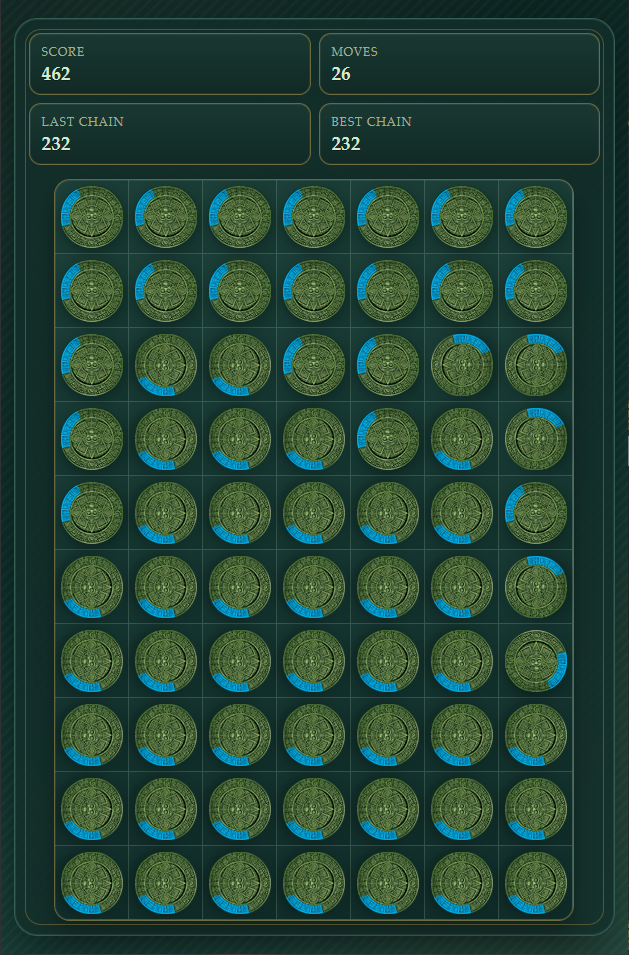
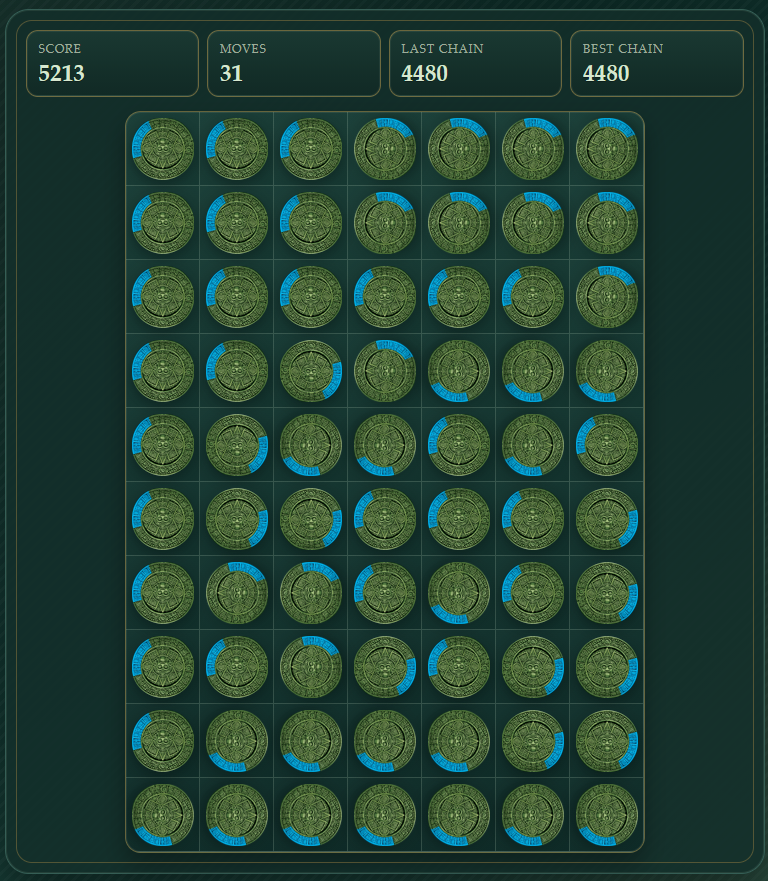
Gameplay tweaks

diff --git a/index.php b/index.php
@@ -11,7 +11,7 @@ function readIntParam(string $name, int $default, int $min, int $max): int
     return max($min, min($max, $value));
 }
 
-$rows = readIntParam('rows', 10, 6, 18);
+$rows = readIntParam('rows', 11, 6, 18);
 $cols = readIntParam('cols', 7, 4, 12);
 
 $initialState = [];
@@ -366,11 +366,11 @@ for ($row = 0; $row < $rows; $row++) {
       bestChainEl.textContent = String(bestChain);
     }
 
-    function rotateCell(row, col) {
+    function rotateCell(row, col, turnsToApply = 1) {
       const bubble = cells[row][col];
-      const nextRotation = (state[row][col] + 1) & 3;
+      const nextRotation = (state[row][col] + turnsToApply) & 3;
       state[row][col] = nextRotation;
-      turns[row][col] += 1;
+      turns[row][col] += turnsToApply;
       bubble.dataset.rotation = String(nextRotation);
       bubble.style.setProperty("--rot", String(nextRotation));
       bubble.style.setProperty("--turn", String(turns[row][col]));
@@ -393,41 +393,55 @@ for ($row = 0; $row < $rows; $row++) {
       moves += 1;
 
       let chainSize = 0;
-      const queue = [{ row: startRow, col: startCol }];
+      let queue = [{ row: startRow, col: startCol }];
       let reactions = 0;
       const maxReactions = rows * cols * 64;
 
       while (queue.length > 0 && reactions < maxReactions) {
-        const cell = queue.shift();
-        if (!cell) {
-          break;
+        const wave = queue;
+        queue = [];
+        const rotationsByCell = new Map();
+
+        for (const cell of wave) {
+          const id = cell.row + ":" + cell.col;
+          const entry = rotationsByCell.get(id);
+          if (entry) {
+            entry.count += 1;
+          } else {
+            rotationsByCell.set(id, { row: cell.row, col: cell.col, count: 1 });
+          }
         }
 
-        rotateCell(cell.row, cell.col);
-        chainSize += 1;
-        score += 1;
-        reactions += 1;
+        for (const entry of rotationsByCell.values()) {
+          rotateCell(entry.row, entry.col, entry.count);
+        }
+
+        chainSize += wave.length;
+        score += wave.length;
+        reactions += wave.length;
         updateStatLine(chainSize);
         await sleep(140);
 
-        const sourceRotation = state[cell.row][cell.col];
-        for (const direction of directions) {
-          const nextRow = cell.row + direction.dr;
-          const nextCol = cell.col + direction.dc;
-          if (nextRow < 0 || nextRow >= rows || nextCol < 0 || nextCol >= cols) {
-            continue;
-          }
+        for (const cell of wave) {
+          const sourceRotation = state[cell.row][cell.col];
+          for (const direction of directions) {
+            const nextRow = cell.row + direction.dr;
+            const nextCol = cell.col + direction.dc;
+            if (nextRow < 0 || nextRow >= rows || nextCol < 0 || nextCol >= cols) {
+              continue;
+            }
 
-          if (!isReactive(sourceRotation, direction.side)) {
-            continue;
-          }
+            if (!isReactive(sourceRotation, direction.side)) {
+              continue;
+            }
 
-          const touchingSide = oppositeSide[direction.side];
-          if (!isReactive(state[nextRow][nextCol], touchingSide)) {
-            continue;
-          }
+            const touchingSide = oppositeSide[direction.side];
+            if (!isReactive(state[nextRow][nextCol], touchingSide)) {
+              continue;
+            }
 
-          queue.push({ row: nextRow, col: nextCol });
+            queue.push({ row: nextRow, col: nextCol });
+          }
         }
       }
 
